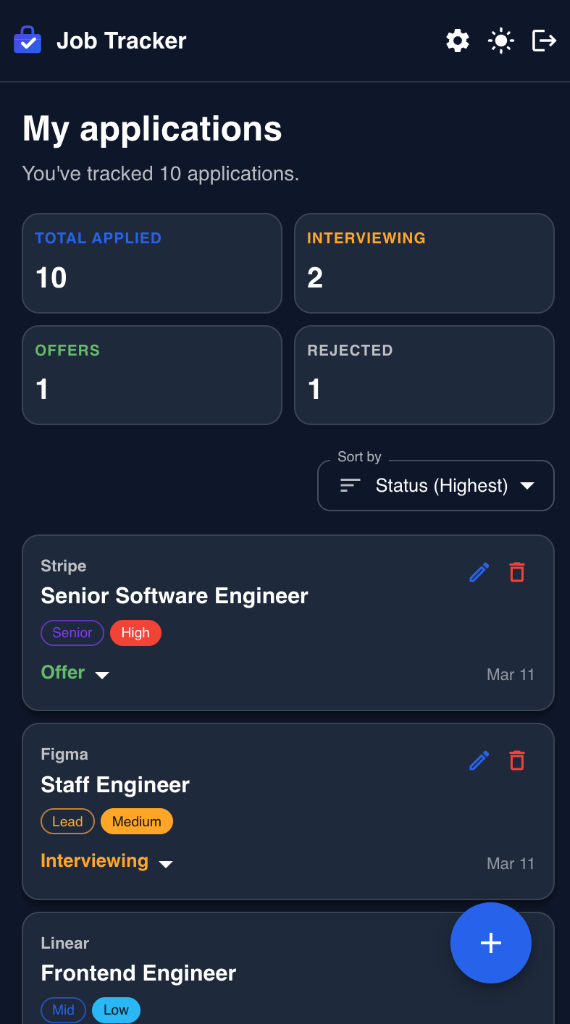
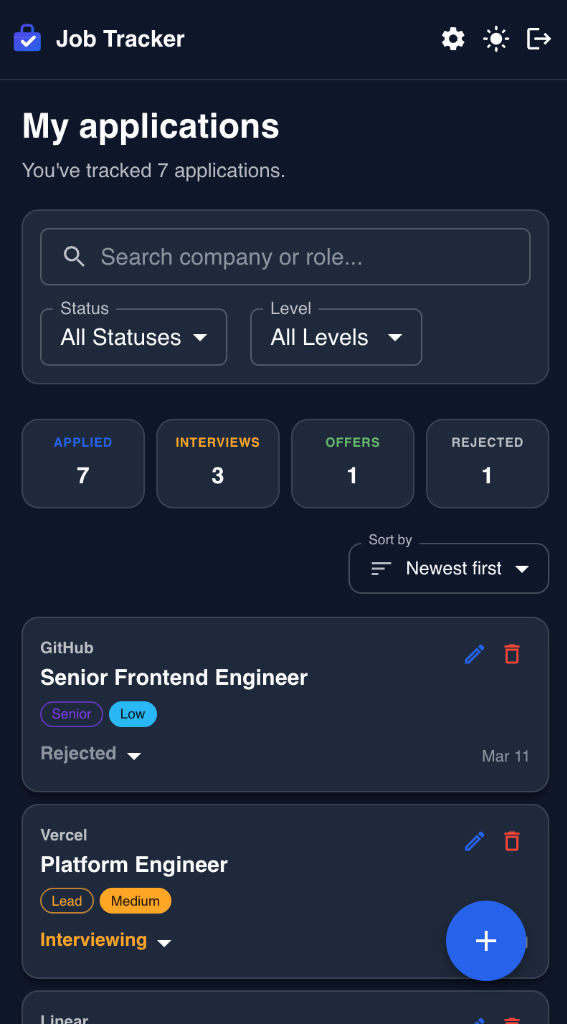
feat: Implement search and filtering for job applications on the dashboard, refine statistics display, and update associated screenshots.

diff --git a/frontend/src/pages/Dashboard.tsx b/frontend/src/pages/Dashboard.tsx
@@ -2,8 +2,10 @@ import React, { useState, useEffect, useContext } from 'react';
 import {
   Container, Typography, Box, Fab, IconButton,
   CssBaseline, AppBar, Toolbar, useTheme, Pagination,
-  Paper, useMediaQuery, Select, MenuItem, FormControl, InputLabel
+  Paper, useMediaQuery, Select, MenuItem, FormControl, InputLabel, TextField, InputAdornment, Button
 } from '@mui/material';
+import SearchIcon from '@mui/icons-material/Search';
+import ClearIcon from '@mui/icons-material/Clear';
 import SortIcon from '@mui/icons-material/Sort';
 import DarkModeIcon from '@mui/icons-material/DarkMode';
 import LightModeIcon from '@mui/icons-material/LightMode';
@@ -34,8 +36,11 @@ export const Dashboard: React.FC = () => {
   const [sortBy, setSortBy] = useState<string>('dateDesc');
   const [page, setPage] = useState(1);
   const [showRejection, setShowRejection] = useState(false);
+  const [searchText, setSearchText] = useState('');
+  const [statusFilter, setStatusFilter] = useState('All');
+  const [levelFilter, setLevelFilter] = useState('All');
   const ITEMS_PER_PAGE = 100;
-  
+
   const colorMode = useContext(ColorModeContext);
   const { logout } = useAuth();
 
@@ -102,7 +107,17 @@ export const Dashboard: React.FC = () => {
     });
   };
 
-  const sortedJobs = [...jobs].sort((a, b) => {
+  const filteredJobs = jobs.filter(job => {
+    const matchesSearch =
+      job.company.toLowerCase().includes(searchText.toLowerCase()) ||
+      job.title.toLowerCase().includes(searchText.toLowerCase());
+    const matchesStatus = statusFilter === 'All' || job.status === statusFilter;
+    const matchesLevel = levelFilter === 'All' || (job.level || '—') === levelFilter;
+
+    return matchesSearch && matchesStatus && matchesLevel;
+  });
+
+  const sortedJobs = [...filteredJobs].sort((a, b) => {
     const getInterestVal = (interest?: string | number) => {
       if (interest === 'High') return 3;
       if (interest === 'Medium') return 2;
@@ -154,14 +169,14 @@ export const Dashboard: React.FC = () => {
     <Box sx={{ minHeight: '100vh', backgroundColor: theme.palette.background.default }}>
       <CssBaseline />
 
-      <AppBar 
-        position="sticky" 
-        elevation={0} 
-        color="inherit" 
-        sx={{ 
+      <AppBar
+        position="sticky"
+        elevation={0}
+        color="inherit"
+        sx={{
           top: 0,
           zIndex: theme.zIndex.appBar,
-          borderBottom: '1px solid', 
+          borderBottom: '1px solid',
           borderColor: 'divider',
           backdropFilter: 'blur(8px)',
           backgroundColor: theme.palette.mode === 'dark' ? 'rgba(15, 23, 42, 0.8)' : 'rgba(255, 255, 255, 0.8)'
@@ -201,24 +216,112 @@ export const Dashboard: React.FC = () => {
             My applications
           </Typography>
           <Typography variant="subtitle2" color="text.secondary">
-            You've tracked {jobs.length} application{jobs.length === 1 ? '' : 's'}.
+            {filteredJobs.length === jobs.length
+              ? `You've tracked ${jobs.length} application${jobs.length === 1 ? '' : 's'}.`
+              : `Showing ${filteredJobs.length} of ${jobs.length} applications.`}
           </Typography>
         </Box>
 
         {jobs.length > 0 && (
           <Box mb={3}>
-            <Box sx={{ display: 'grid', gap: { xs: 1, sm: 1.5 }, gridTemplateColumns: { xs: 'repeat(2, 1fr)', md: 'repeat(4, 1fr)' } }}>
+            <Paper
+              elevation={0}
+              sx={{
+                p: { xs: 1.5, sm: 2 },
+                mb: 3,
+                borderRadius: 2,
+                border: '1px solid',
+                borderColor: 'divider',
+                display: 'flex',
+                flexDirection: { xs: 'column', md: 'row' },
+                gap: 2,
+                alignItems: { xs: 'stretch', md: 'center' }
+              }}
+            >
+              <TextField
+                size="small"
+                placeholder="Search company or role..."
+                value={searchText}
+                onChange={(e) => setSearchText(e.target.value)}
+                sx={{ flexGrow: 1 }}
+                InputProps={{
+                  startAdornment: (
+                    <InputAdornment position="start">
+                      <SearchIcon fontSize="small" sx={{ color: 'text.secondary' }} />
+                    </InputAdornment>
+                  ),
+                  endAdornment: searchText && (
+                    <InputAdornment position="end">
+                      <IconButton size="small" onClick={() => setSearchText('')}>
+                        <ClearIcon fontSize="small" />
+                      </IconButton>
+                    </InputAdornment>
+                  )
+                }}
+              />
+
+              <Box sx={{ display: 'flex', gap: 2, flexWrap: 'wrap' }}>
+                <FormControl size="small" sx={{ minWidth: 120 }}>
+                  <InputLabel id="status-filter-label">Status</InputLabel>
+                  <Select
+                    labelId="status-filter-label"
+                    value={statusFilter}
+                    label="Status"
+                    onChange={(e) => setStatusFilter(e.target.value)}
+                  >
+                    <MenuItem value="All">All Statuses</MenuItem>
+                    <MenuItem value="Applied">Applied</MenuItem>
+                    <MenuItem value="Interviewing">Interviewing</MenuItem>
+                    <MenuItem value="Offer">Offer</MenuItem>
+                    <MenuItem value="Rejected">Rejected</MenuItem>
+                  </Select>
+                </FormControl>
+
+                <FormControl size="small" sx={{ minWidth: 120 }}>
+                  <InputLabel id="level-filter-label">Level</InputLabel>
+                  <Select
+                    labelId="level-filter-label"
+                    value={levelFilter}
+                    label="Level"
+                    onChange={(e) => setLevelFilter(e.target.value)}
+                  >
+                    <MenuItem value="All">All Levels</MenuItem>
+                    <MenuItem value="Junior">Junior</MenuItem>
+                    <MenuItem value="Mid">Mid</MenuItem>
+                    <MenuItem value="Senior">Senior</MenuItem>
+                    <MenuItem value="Lead">Lead</MenuItem>
+                    <MenuItem value="—">Other</MenuItem>
+                  </Select>
+                </FormControl>
+
+                {(searchText || statusFilter !== 'All' || levelFilter !== 'All') && (
+                  <Button
+                    size="small"
+                    onClick={() => {
+                      setSearchText('');
+                      setStatusFilter('All');
+                      setLevelFilter('All');
+                    }}
+                    startIcon={<ClearIcon />}
+                  >
+                    Clear
+                  </Button>
+                )}
+              </Box>
+            </Paper>
+
+            <Box sx={{ display: 'grid', gap: { xs: 1, sm: 1.5 }, gridTemplateColumns: { xs: 'repeat(4, 1fr)', md: 'repeat(4, 1fr)' } }}>
               {[
-                { label: 'Total applied', value: stats.total, color: 'primary.main' },
-                { label: 'Interviewing', value: stats.interviewing, color: 'warning.main' },
+                { label: 'Applied', value: stats.total, color: 'primary.main' },
+                { label: 'Interviews', value: stats.interviewing, color: 'warning.main' },
                 { label: 'Offers', value: stats.offers, color: 'success.main' },
                 { label: 'Rejected', value: stats.rejected, color: 'text.secondary' }
               ].map((stat) => (
-                <Paper key={stat.label} elevation={0} sx={{ p: { xs: 1, sm: 1.5 }, borderRadius: 2, border: '1px solid', borderColor: 'divider' }}>
-                  <Typography variant="caption" color={stat.color} fontWeight="bold" sx={{ display: 'block', mb: 0.25, textTransform: 'uppercase', letterSpacing: '0.05em', fontSize: '0.65rem' }}>
+                <Paper key={stat.label} elevation={0} sx={{ p: { xs: 1, sm: 1.5 }, borderRadius: 2, border: '1px solid', borderColor: 'divider', textAlign: 'center' }}>
+                  <Typography variant="caption" color={stat.color} fontWeight="bold" sx={{ display: 'block', mb: 0.25, textTransform: 'uppercase', letterSpacing: '0.05em', fontSize: { xs: '0.55rem', sm: '0.65rem' } }}>
                     {stat.label}
                   </Typography>
-                  <Typography variant={isMobile ? "h6" : "h5"} fontWeight="bold">{stat.value}</Typography>
+                  <Typography variant={isMobile ? "subtitle1" : "h5"} fontWeight="bold">{stat.value}</Typography>
                 </Paper>
               ))}
             </Box>

diff --git a/README.md b/README.md
@@ -8,7 +8,7 @@ I built this as a personal project (and to genuinely help me in my job hunt), us
 
 | Dashboard (Desktop) | Dashboard (Mobile) | Add Application |
 |---|---|---|
-| <img src="docs/screenshots/01_dashboard.png" width="350" alt="Dashboard"> | <img src="docs/screenshots/02_dashboard_mobile.png" width="150" alt="Dashboard"> | <img src="docs/screenshots/03_add_job.png" width="350" alt="Add Job Modal"> |
+| <img src="docs/screenshots/01_dashboard.png" width="350" alt="Dashboard"> | <img src="docs/screenshots/02_dashboard_mobile.png" width="150" alt="Dashboard"> | <img src="docs/screenshots/03_add_job.png" width="200" alt="Add Job Modal"> |
 
 | Status Management | Follow-up Alerts | Authentication |
 |---|---|---|
